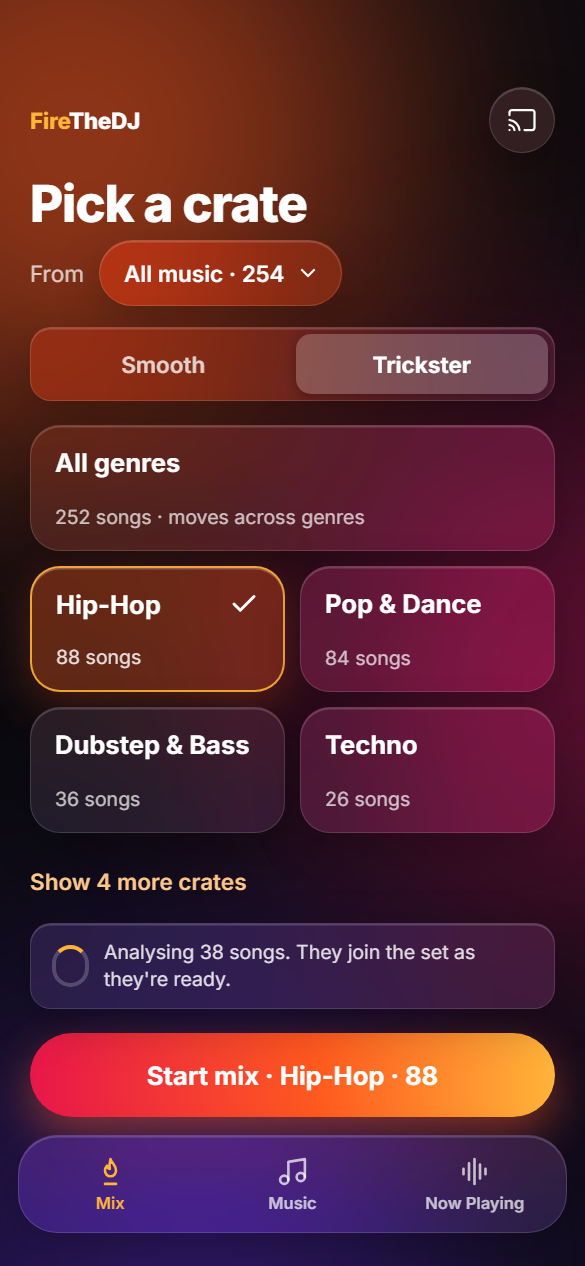
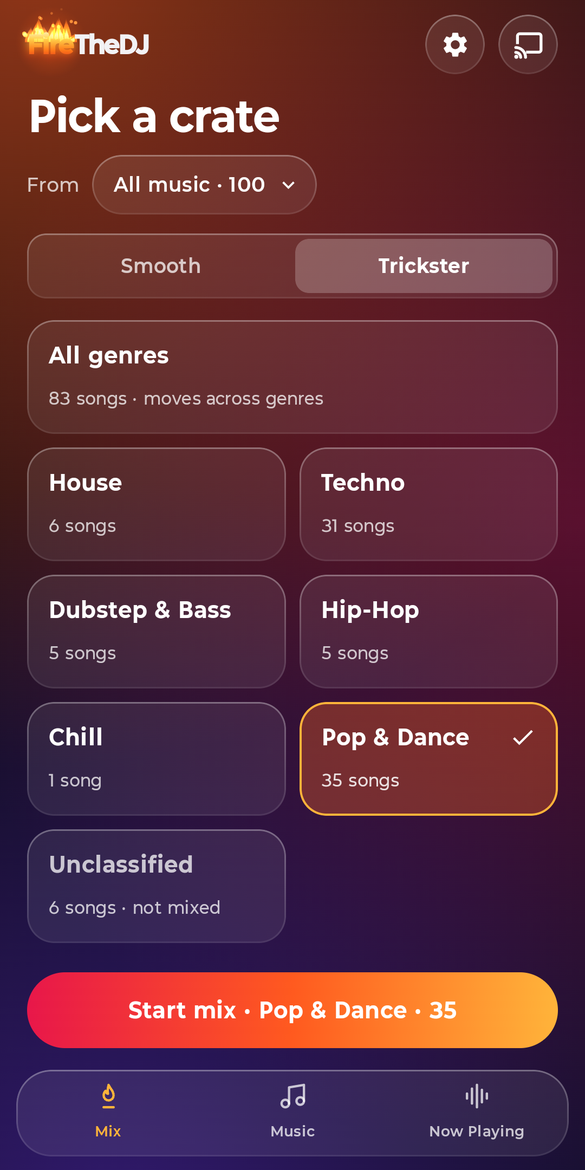
README: new screenshots for 1.5.0, with a sideways section
Two decks mid-mix, the effects view, the sideways Mix tab and Acid Trip;
fresh upright Mix, Now Playing and Settings shots. The old Club
visualizer shot is gone.

diff --git a/README.md b/README.md
@@ -82,21 +82,38 @@ bass swaps, echo-outs, filter sweeps, loop rolls, backspins, scratches, vocal sw
 
 <h2 id="screenshots">Screenshots</h2>
 
+#### Sideways
+
+<div align="center">
+<table>
+  <tr>
+    <td align="center"><img src="screenshots/15-sideways-decks.png" width="400" alt="Two decks mid-mix: a vocal swap at bar 6 of 12, beats locked, the Vocals effect playing"/><br/><sub>Turn the phone: both decks, mid-mix</sub></td>
+    <td align="center"><img src="screenshots/16-sideways-effects.png" width="400" alt="Effects view: crossfade, rate, phase error, key, tempo, the mix's phases and every effect"/><br/><sub>Tap the effects panel for the full effects view</sub></td>
+  </tr>
+  <tr>
+    <td align="center"><img src="screenshots/17-sideways-mix.png" width="400" alt="Mix tab sideways: source and mode on the left, genre crates on the right"/><br/><sub>Mix: pick a crate</sub></td>
+    <td align="center"><img src="screenshots/18-acid-trip.png" width="400" alt="Acid Trip visualizer with the look picker open"/><br/><sub>Full-screen visualizers: Acid Trip</sub></td>
+  </tr>
+</table>
+</div>
+
+#### Upright
+
 <div align="center">
 <table>
   <tr>
     <td align="center"><img src="screenshots/02-mix.png" width="200" alt="Mix tab: source, mode and genre crates"/><br/><sub>Mix: pick a crate</sub></td>
     <td align="center"><img src="screenshots/03-music.png" width="200" alt="Music tab: sources and songs"/><br/><sub>Music: your sources</sub></td>
-    <td align="center"><img src="screenshots/04-now-playing.png" width="200" alt="Now Playing with the spinning glass record"/><br/><sub>Now Playing</sub></td>
+    <td align="center"><img src="screenshots/04-now-playing.png" width="200" alt="Now Playing with the spinning record, skip button and AI in control"/><br/><sub>Now Playing</sub></td>
   </tr>
   <tr>
-    <td align="center"><img src="screenshots/05-visualizer.png" width="200" alt="Full-screen Club visualizer with glass controls"/><br/><sub>Full-screen visualizers</sub></td>
+    <td align="center"><img src="screenshots/08-settings.png" width="200" alt="Settings with What's new in 1.5.0"/><br/><sub>Settings &amp; what's new</sub></td>
     <td align="center"><img src="screenshots/07-cast.png" width="200" alt="Play on a TV sheet"/><br/><sub>Play on a TV</sub></td>
-    <td align="center"><img src="screenshots/08-settings.png" width="200" alt="Settings with an update ready"/><br/><sub>Settings &amp; updates</sub></td>
+    <td align="center"><img src="screenshots/14-update.png" width="200" alt="Banner for a new version"/><br/><sub>A new version is out</sub></td>
   </tr>
   <tr>
-    <td align="center"><img src="screenshots/14-update.png" width="200" alt="Banner for a new version"/><br/><sub>A new version is out</sub></td>
     <td align="center"><img src="screenshots/13-support.png" width="200" alt="Support FireTheDJ over UPI"/><br/><sub>Support over UPI</sub></td>
+    <td></td>
     <td></td>
   </tr>
 </table>
